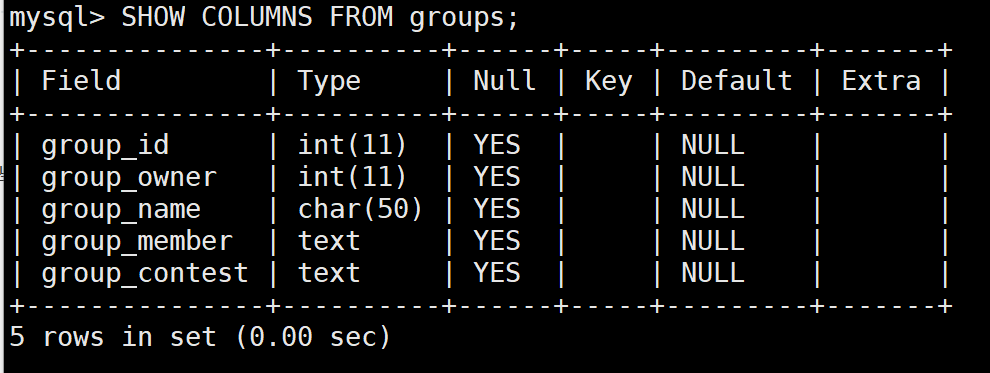
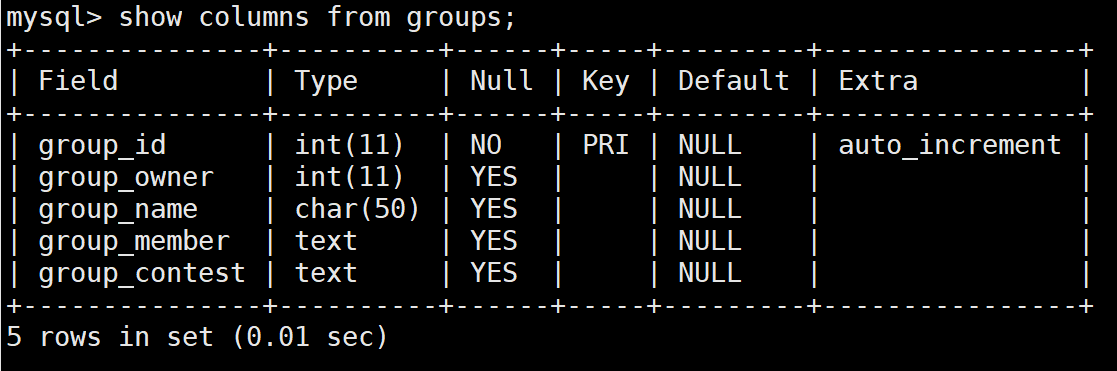
2020/04/22 修改数据库 and 上传服务端代码

diff --git a/服务器/main/server.py b/服务器/main/server.py
@@ -1,0 +1,84 @@
+import socket,threading,time,pymysql
+
+class myThread(threading.Thread):
+    def __init__(self,threadID,name,ss,cursor,conn):
+        threading.Thread.__init__(self)
+        self.threadID = threadID
+        self.name = name
+        self.ss = ss
+        self.cursor = cursor
+        self.conn = conn
+
+    def run(self):
+        msg = bytes.decode(self.ss.recv(10024))
+        print(msg)
+        info = msg.split(':::')
+        self.cursor.execute("insert into User values(0,'"+info[1]+"','"+info[2]+"',' ',' ',' ',' ',' ',' ',' ',' ','"+info[3]+"');")
+        self.conn.commit()
+        self.ss.send(b"\nsign up succeeded!")
+        self.ss.close()
+    
+    def create_user(self,sta,cursor):
+        pass
+    
+    def create_group(self,sta,cursor):
+        pass
+    
+    def create_contest(self,sta,cursor):
+        pass
+    
+    def group_add_user(self,sta,cursor):
+        pass
+    
+    def group_add_contest(self,sta,cursor):
+        pass
+    
+    def submit_code(self,sta,cursor):
+        pass
+    
+    def submit_code_from_contest(self,sta,cursor):
+        pass
+    
+    def send_user_info(self,cursor):
+        pass
+    
+    def send_group_info(self,cursor):
+        pass
+        
+    def send_problem_info(self,cursor):
+        pass
+        
+    def send_contest_info(self,cursor):
+        pass
+    
+    def send_running_contest(self,cursor):
+        pass
+
+# 连接数据库
+conn = pymysql.connect(host='localhost', port=3306, user='root', passwd='2015hero', db='onlinejudge', charset='utf8')
+
+s = socket.socket()         # 创建 socket 对象
+host = socket.gethostname() # 获取本地主机名
+port = 12345                # 设置端口
+s.bind((host, port))        # 绑定端口
+s.listen(100)
+t_num = 0
+t_list = []
+
+
+while(True):
+    try:
+        try:
+            ss,addr = s.accept()
+            print("client connected from: ",addr)
+            t_list.append(myThread(t_num,"socket-"+str(t_num),ss,conn.cursor(),conn))
+            t_list[t_num].start()
+            t_num += 1
+        except:
+            ss.close()
+            s.close()
+            conn.close()
+    except:
+        raise
+
+
